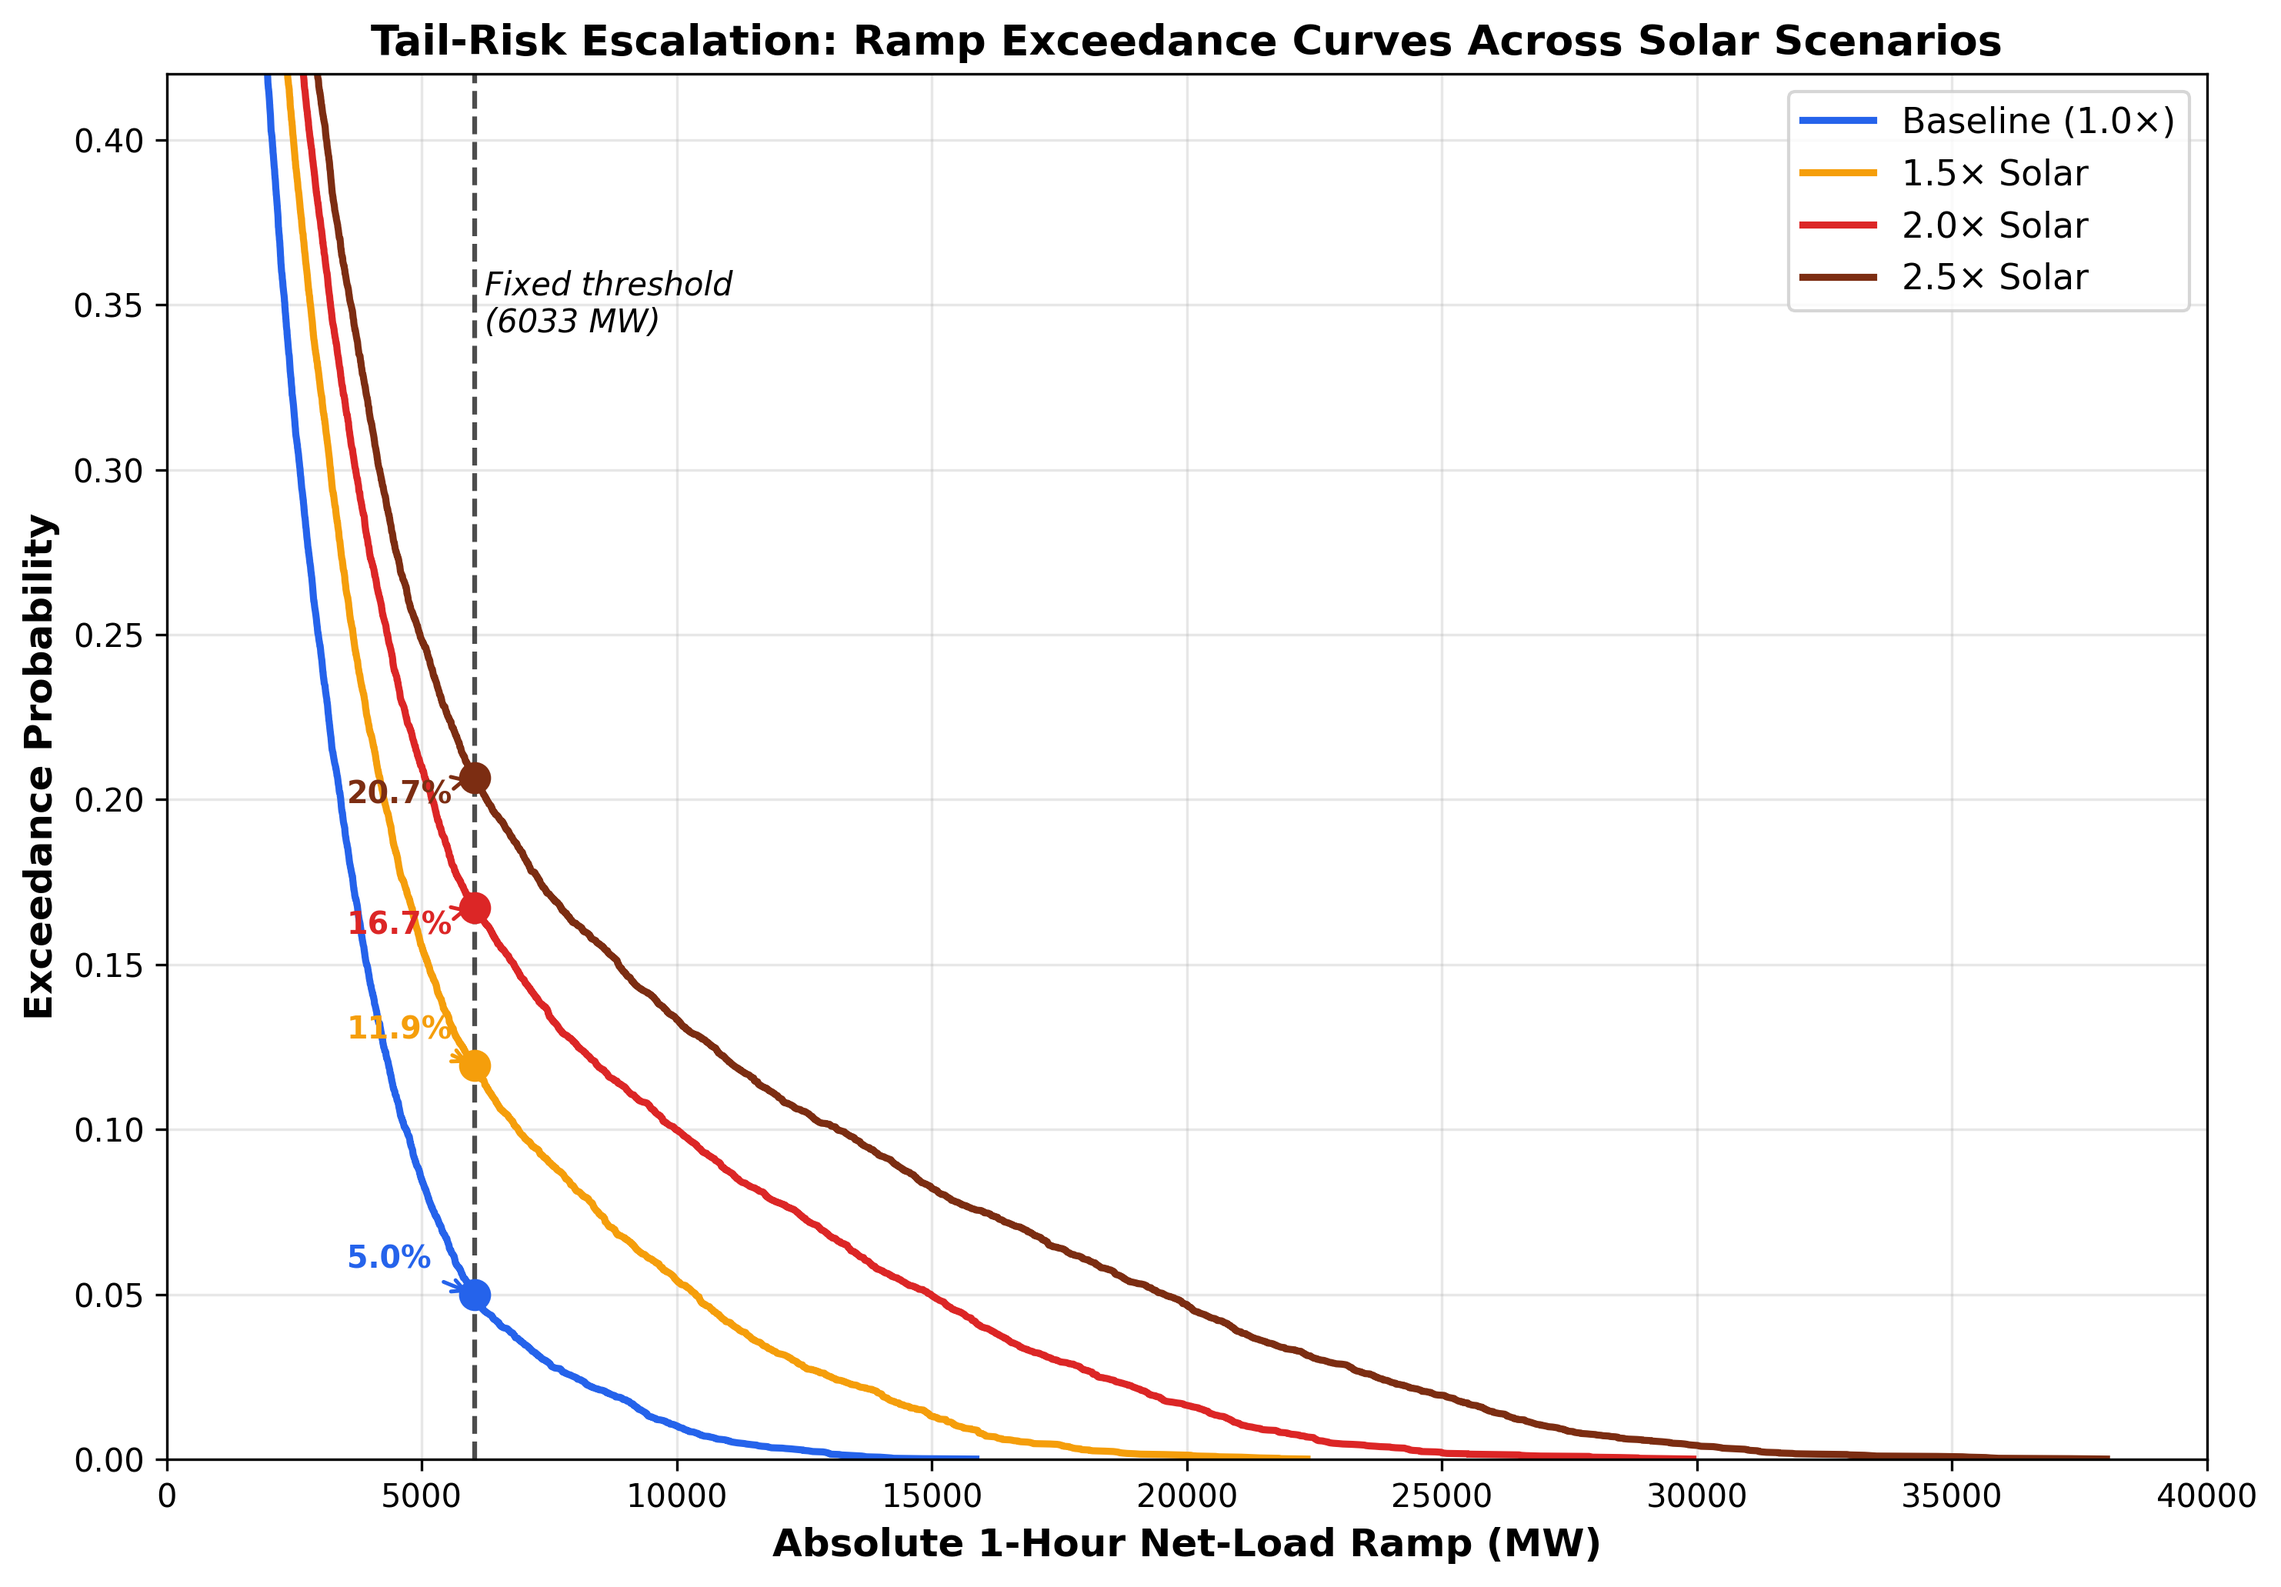
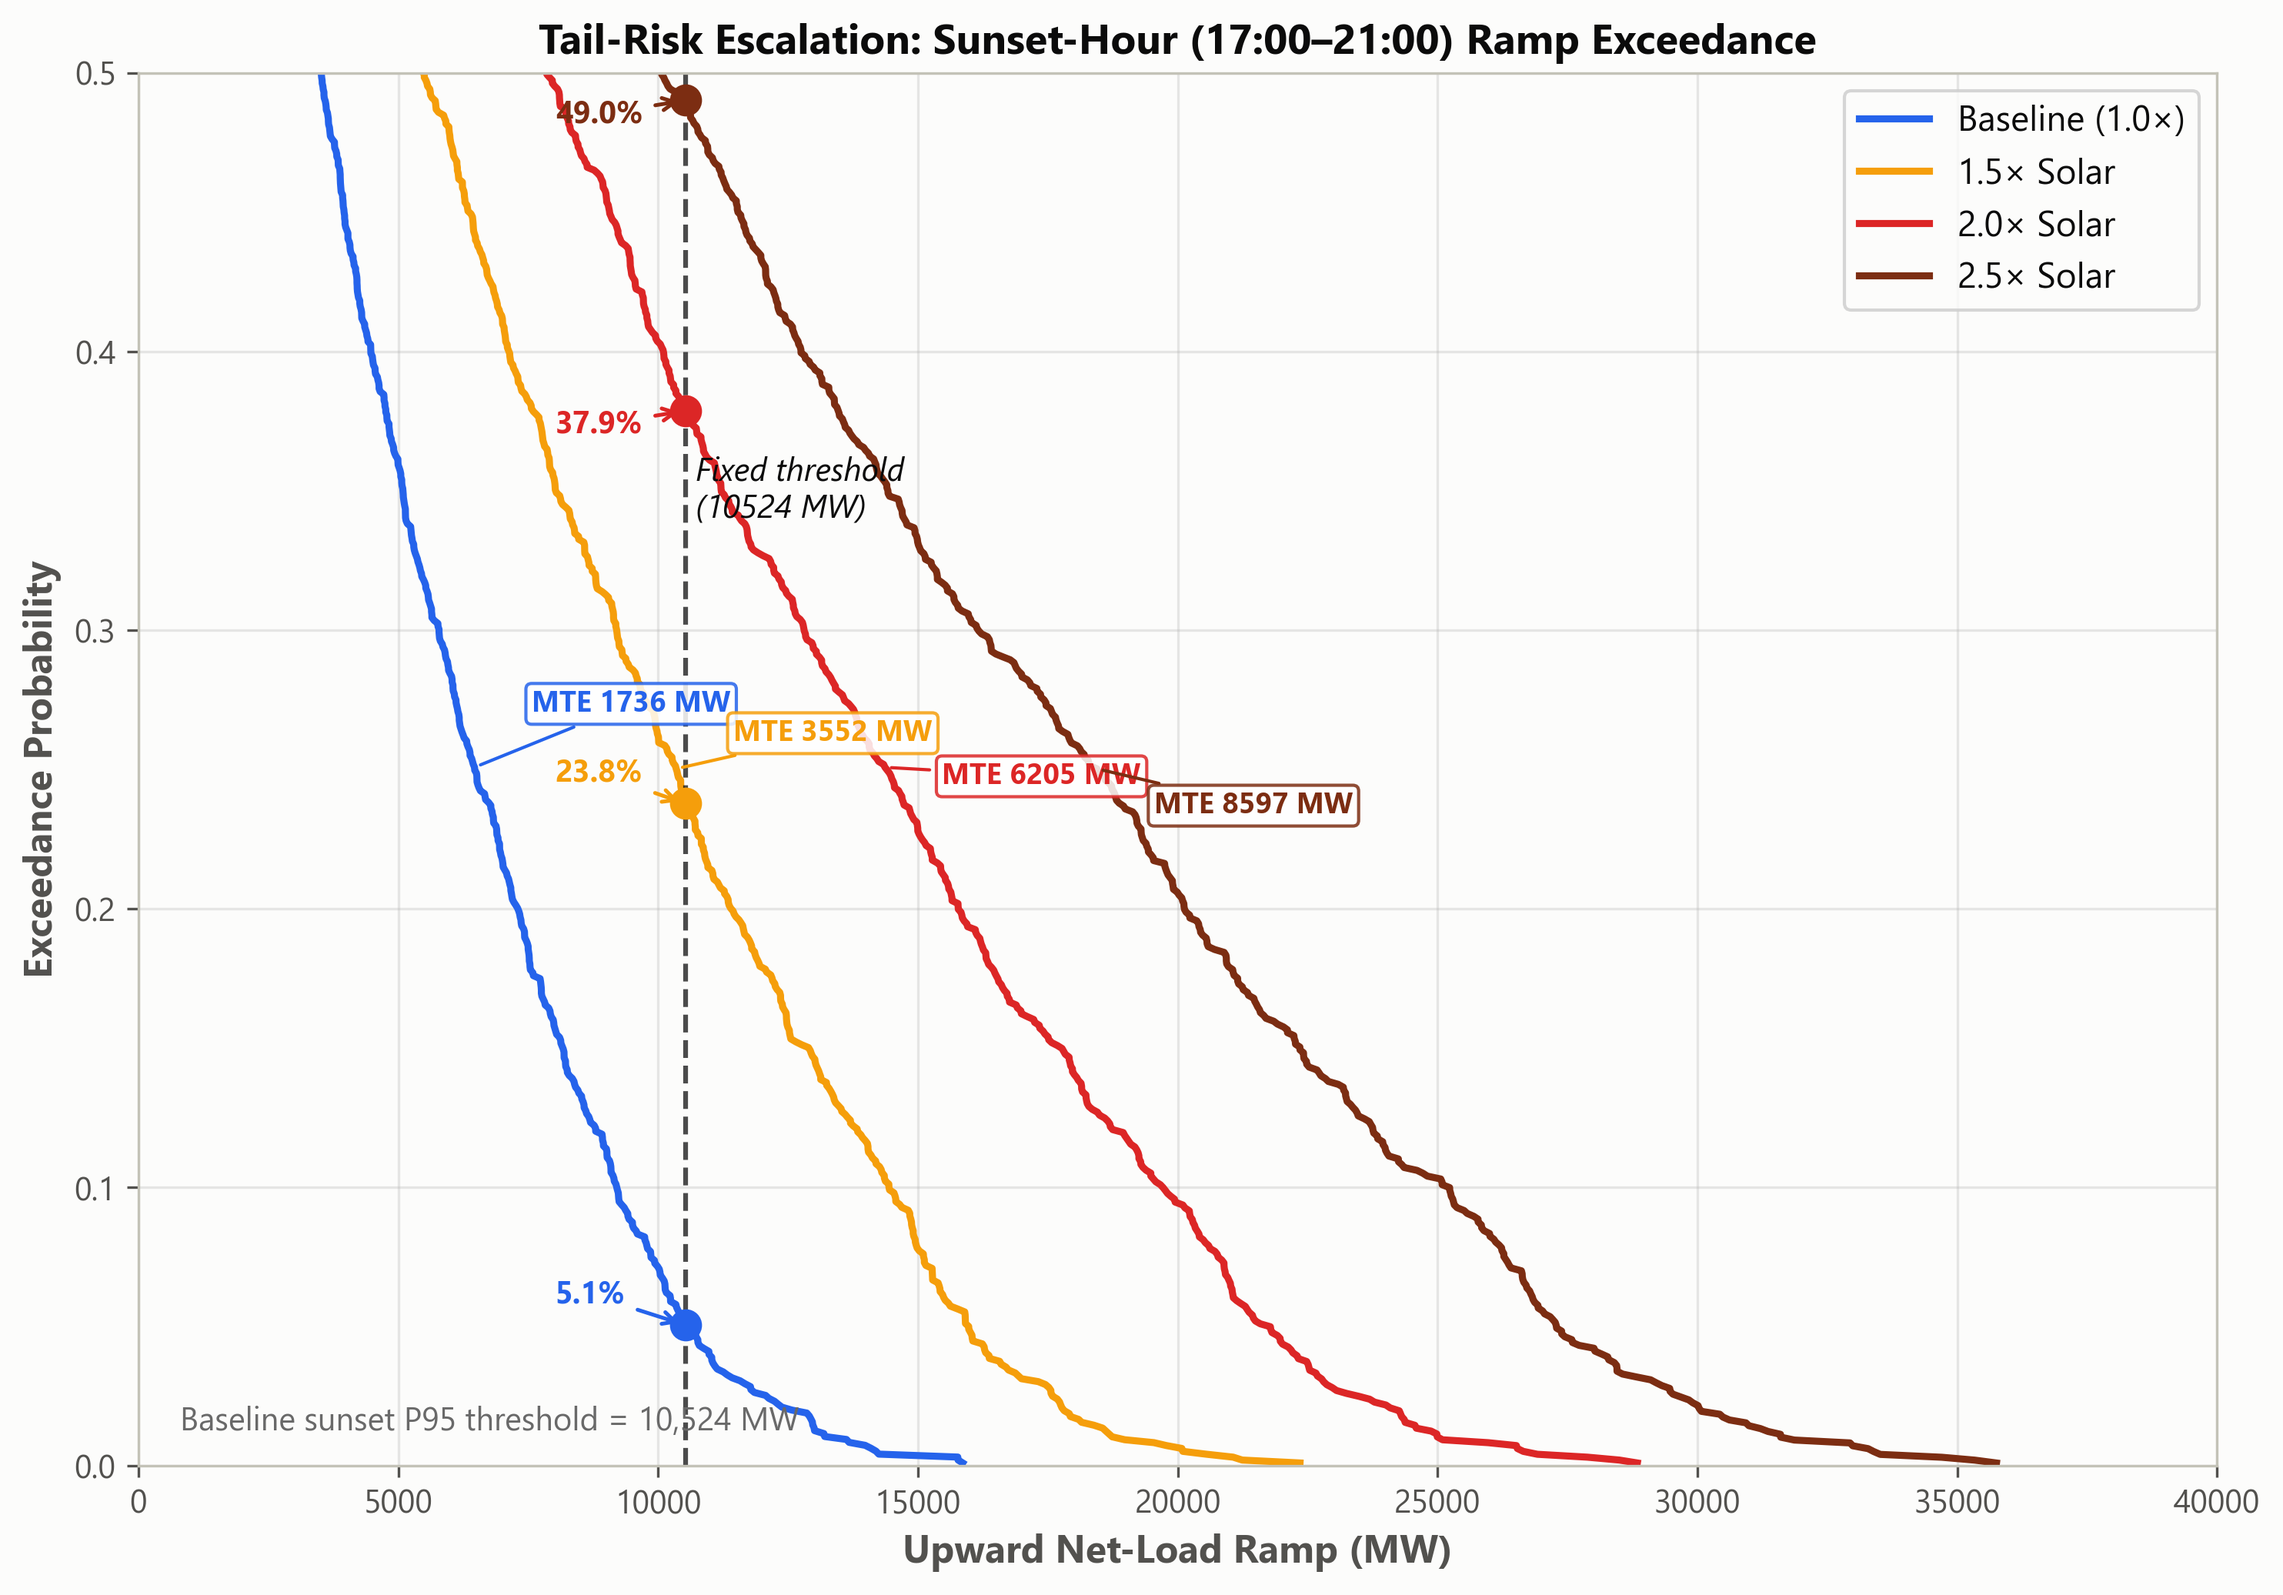
Calculate tail exceedance

diff --git a/.tools/gen_tail_exceedance_plot.py b/.tools/gen_tail_exceedance_plot.py
@@ -14,7 +14,7 @@ df = df[df['datetime'].dt.year == 2025].copy()
 df['hour'] = df['datetime'].dt.hour
 
 # Restrict to sunset hours (18, 19, 20, 21)
-sunset_hours = [18, 19, 20, 21]
+sunset_hours = [17,18, 19, 20]
 df_sunset = df[df['hour'].isin(sunset_hours)].copy()
 
 # Compute baseline P95 from 2025 sunset-hour upward ramps
@@ -24,6 +24,10 @@ baseline_ramp = baseline_ramp[baseline_ramp > 0]
 FIXED_THRESHOLD = baseline_ramp.quantile(0.95)
 print(f'Computed 2025 baseline P95 (sunset upward ramps): {FIXED_THRESHOLD:.0f} MW')
 
+# Fixed threshold for mean threshold exceedance metric:
+# MTE = E[R - T | R > T], with T = 10,524 MW
+MTE_THRESHOLD = 10524.0
+
 solar_multipliers = [1.0, 1.5, 2.0, 2.5]
 labels = ['Baseline (1.0×)', '1.5× Solar', '2.0× Solar', '2.5× Solar']
 colors = ['#2563eb', '#f59e0b', '#dc2626', '#7c2d12']
@@ -31,16 +35,28 @@ colors = ['#2563eb', '#f59e0b', '#dc2626', '#7c2d12']
 fig, ax = plt.subplots(figsize=(10, 7))
 
 tail_probs = []
+mte_values = []
+mte_anchors = []
 
 for mult, label, color in zip(solar_multipliers, labels, colors):
     net_load = df_sunset['ERCOT.LOAD'] - df_sunset['ERCOT.WIND.GEN'] - mult * df_sunset['ERCOT.PVGR.GEN']
     ramp_1h = net_load.diff().dropna()
     ramp_1h = ramp_1h[ramp_1h > 0]
 
+    exceedances_mte = ramp_1h[ramp_1h > MTE_THRESHOLD]
+    if len(exceedances_mte) == 0:
+        mte = np.nan
+    else:
+        mte = (exceedances_mte - MTE_THRESHOLD).mean()
+    mte_values.append(mte)
+
     sorted_ramps = np.sort(ramp_1h.values)[::-1]
     exceedance = np.arange(1, len(sorted_ramps) + 1) / len(sorted_ramps)
 
     ax.plot(sorted_ramps, exceedance, color=color, linewidth=2.2, label=label)
+
+    anchor_idx = min(len(sorted_ramps) - 1, max(0, int(0.25 * len(sorted_ramps))))
+    mte_anchors.append((sorted_ramps[anchor_idx], exceedance[anchor_idx], color, mte))
 
     tail_prob = (ramp_1h > FIXED_THRESHOLD).mean()
     tail_probs.append(tail_prob)
@@ -57,10 +73,35 @@ for i, (prob, color, label) in enumerate(zip(tail_probs, colors, labels)):
                 fontsize=9.5, fontweight='bold', color=color,
                 arrowprops=dict(arrowstyle='->', color=color, lw=1.2))
 
+for i, (x_anchor, y_anchor, color, mte) in enumerate(mte_anchors):
+    y_offsets = [0.020, 0.010, -0.006, -0.016]
+    y_shift = y_offsets[i] if i < len(y_offsets) else 0.0
+    mte_text = 'MTE N/A' if np.isnan(mte) else f'MTE {mte:.0f} MW'
+    ax.annotate(
+        mte_text,
+        xy=(x_anchor, y_anchor),
+        xytext=(x_anchor + 1100, y_anchor + y_shift),
+        fontsize=9,
+        fontweight='bold',
+        color=color,
+        bbox=dict(boxstyle='round,pad=0.20', fc='white', ec=color, alpha=0.85),
+        arrowprops=dict(arrowstyle='-', color=color, lw=1.0),
+    )
+
 ax.set_xlabel('Upward Net-Load Ramp (MW)', fontsize=12, fontweight='bold')
 ax.set_ylabel('Exceedance Probability', fontsize=12, fontweight='bold')
-ax.set_title('Tail-Risk Escalation: Sunset-Hour (18:00–21:00) Ramp Exceedance',
+ax.set_title('Tail-Risk Escalation: Sunset-Hour (17:00–21:00) Ramp Exceedance',
              fontsize=13, fontweight='bold')
+ax.text(
+    0.02,
+    0.02,
+    'Baseline sunset P95 threshold = 10,524 MW',
+    transform=ax.transAxes,
+    fontsize=10,
+    color='dimgray',
+    ha='left',
+    va='bottom'
+)
 ax.set_xlim(0, 40000)
 ax.set_ylim(0, 0.50)
 ax.legend(fontsize=11, loc='upper right')
@@ -70,3 +111,10 @@ plt.tight_layout()
 plt.savefig(FIGURES_DIR / 'tail_exceedance_by_scenario.png', dpi=300, bbox_inches='tight')
 print('Saved: figures/tail_exceedance_by_scenario.png')
 print(f'Tail probabilities at {FIXED_THRESHOLD:.0f} MW: {[f"{p*100:.1f}%" for p in tail_probs]}')
+
+print(f'Mean threshold exceedance at {MTE_THRESHOLD:.0f} MW (MTE = E[R-T | R>T]):')
+for label, mte in zip(labels, mte_values):
+    if np.isnan(mte):
+        print(f'  {label}: NaN (no exceedances above threshold)')
+    else:
+        print(f'  {label}: {mte:.1f} MW')
